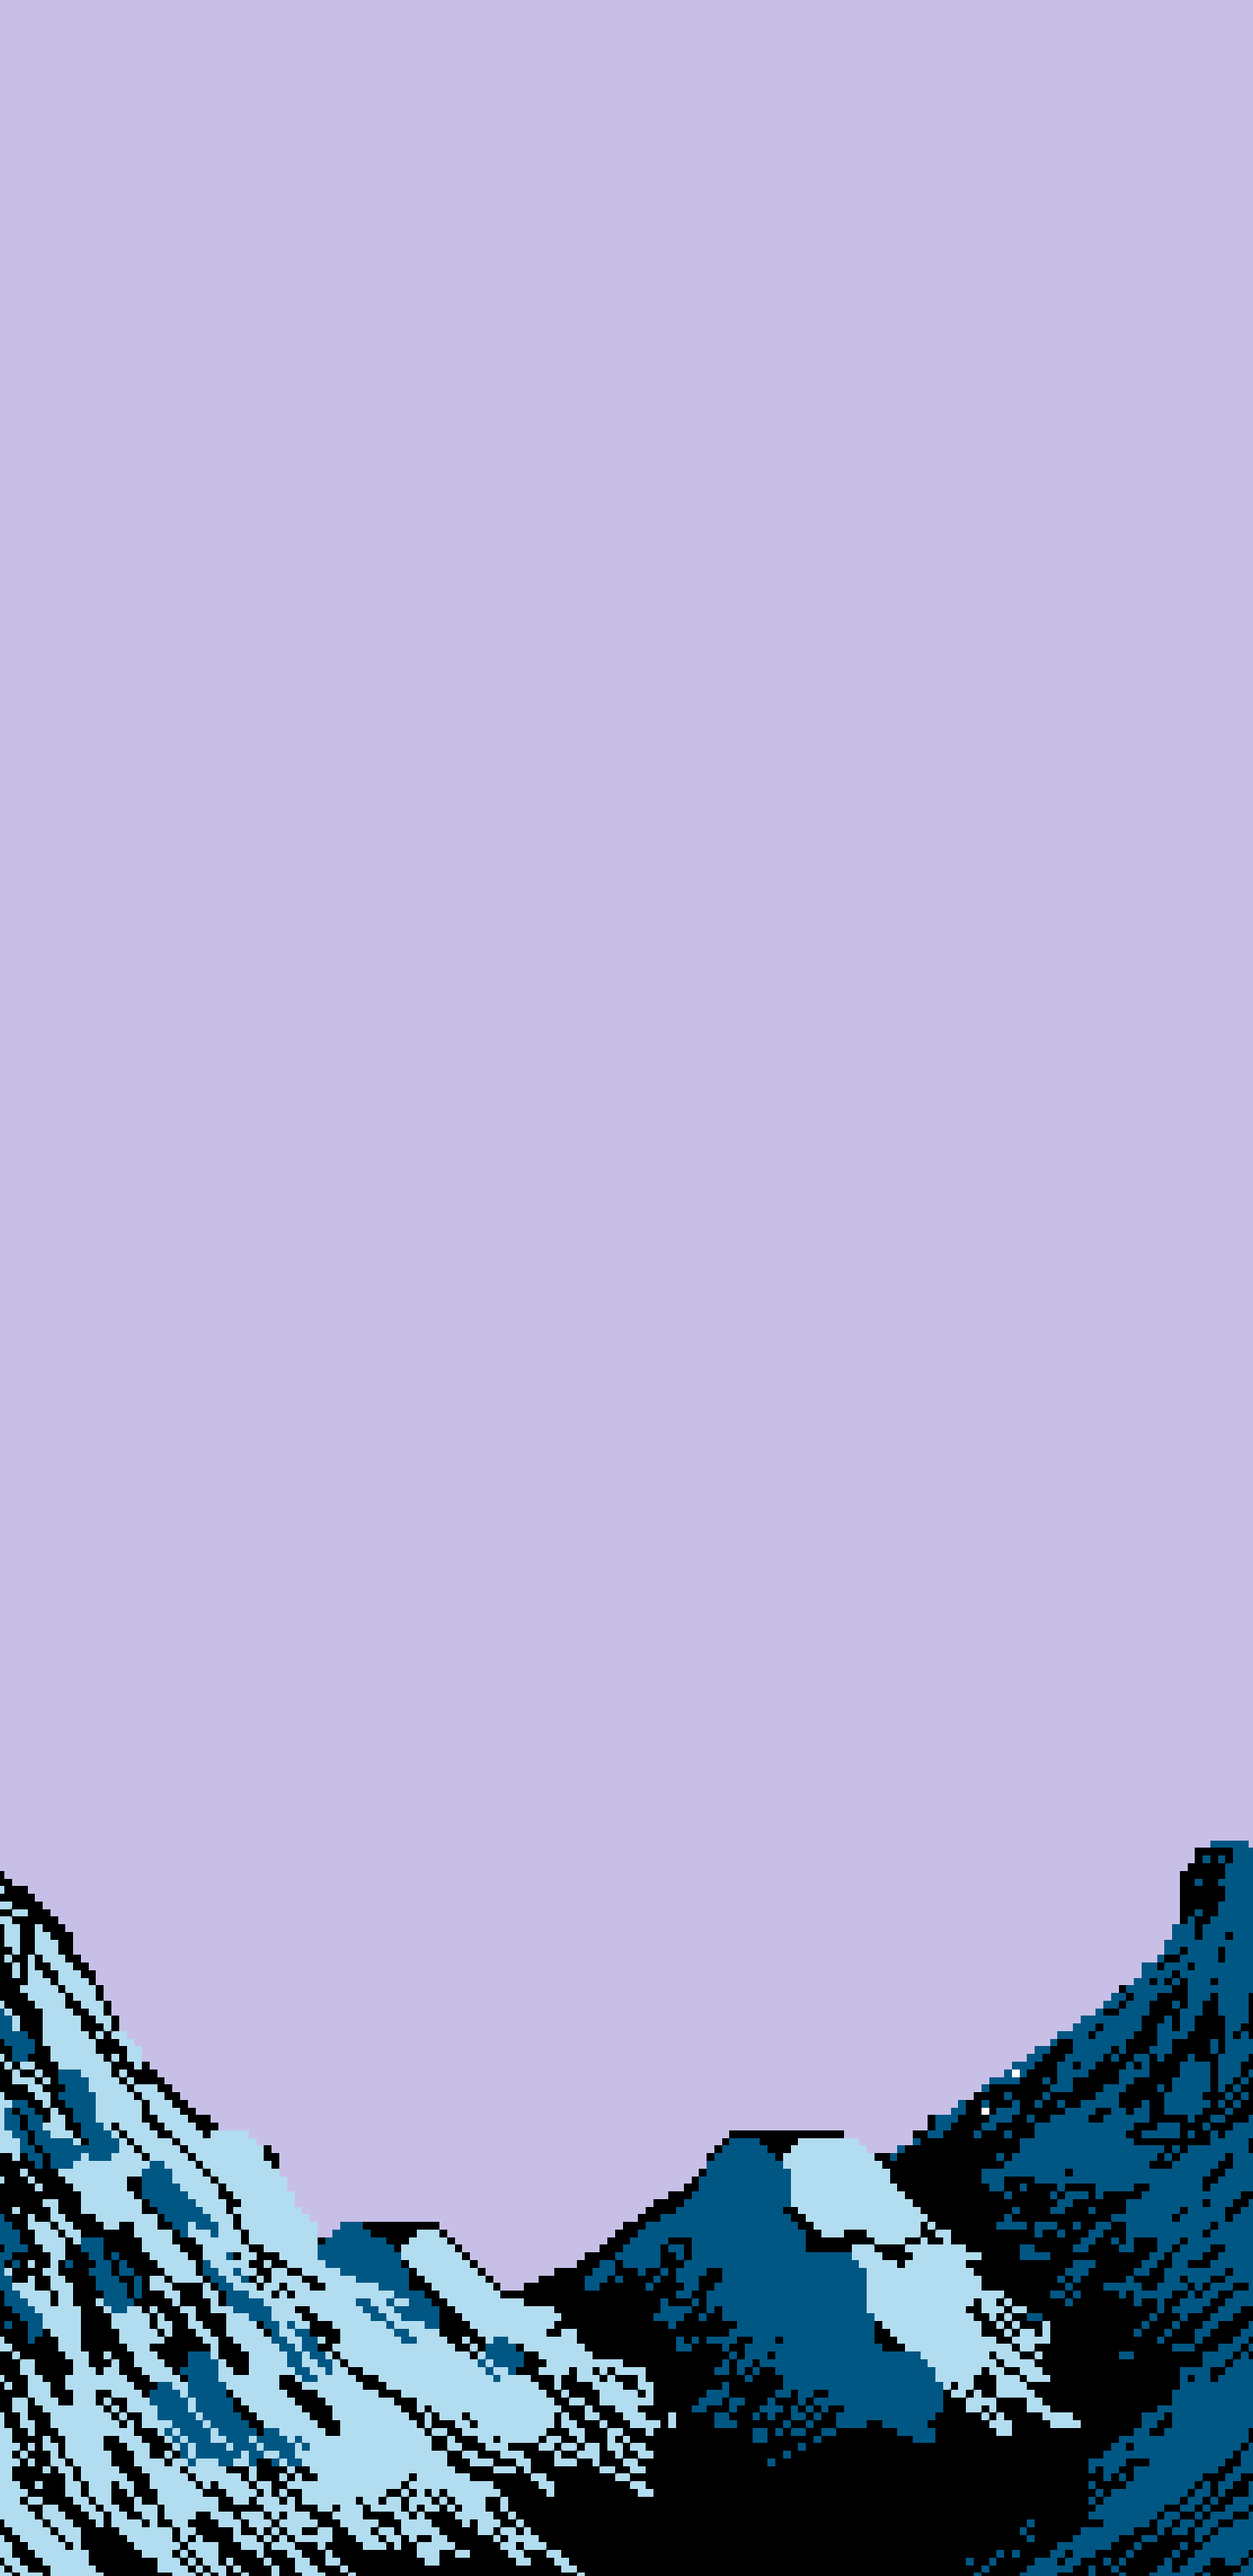
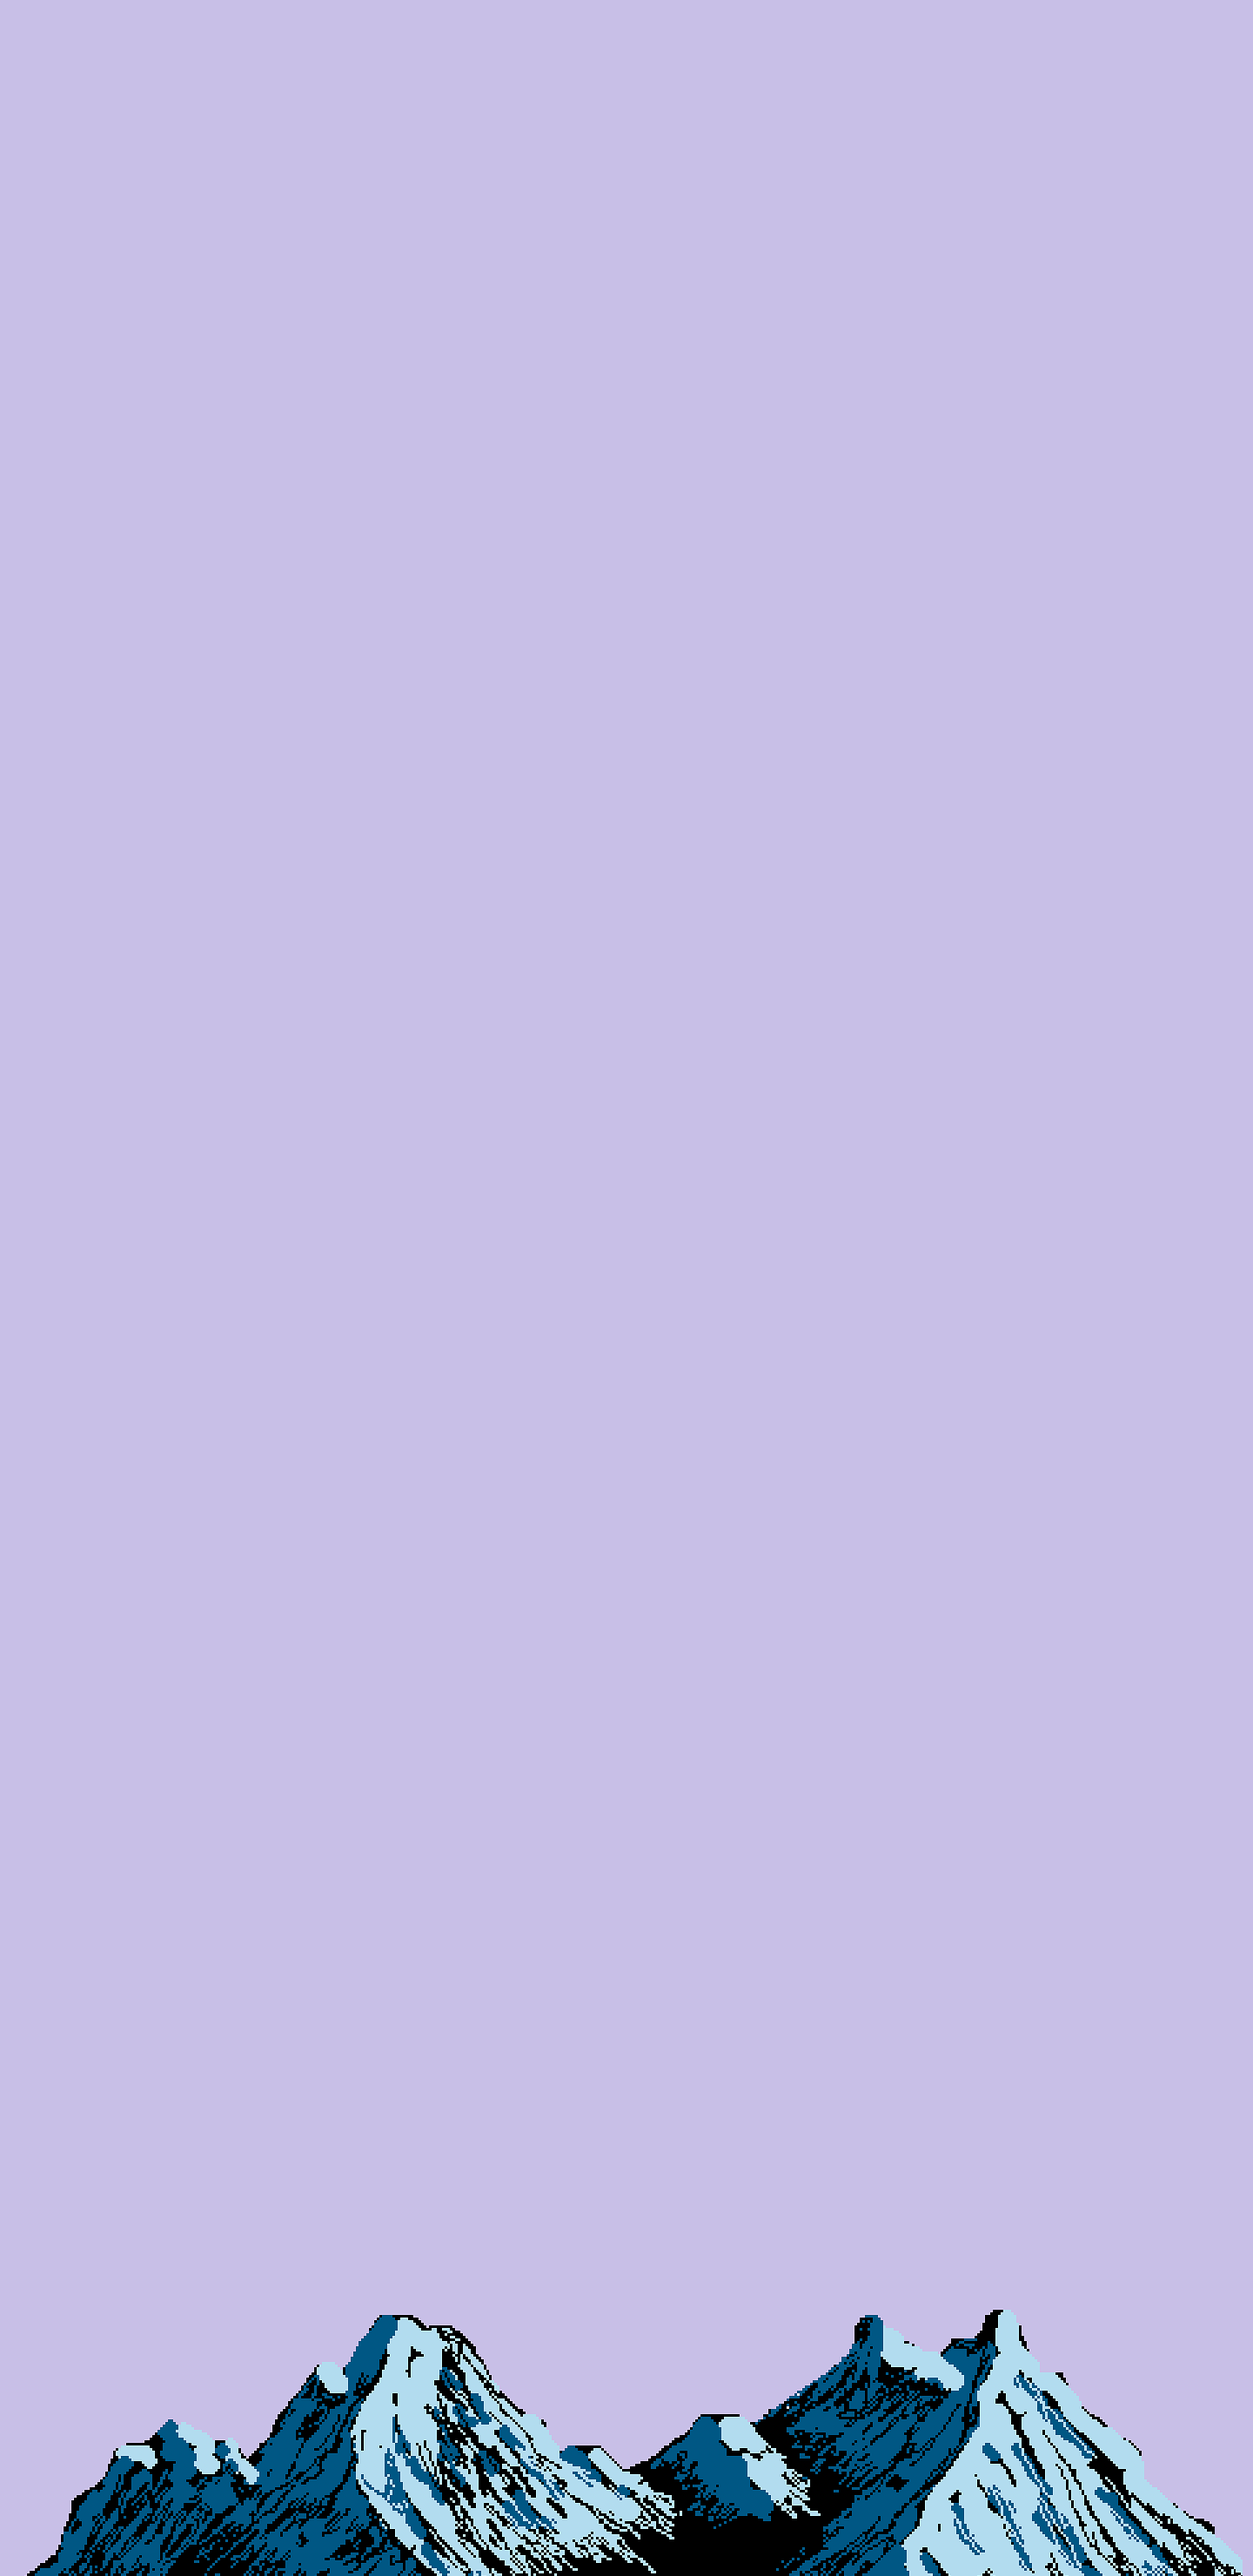
Cityscapes v0.36
Improved the Mountains skin. Fixed the semitransparent G symbol in the Settings scene.

Changed region(s): [[0.0, 0.7149, 1.0, 1.0]]

diff --git a/Assets/Scripts/GameManager.cs b/Assets/Scripts/GameManager.cs
@@ -112,6 +112,8 @@ public class GameManager : MonoBehaviour {
     private float originalPuzzleScale;
     public GameObject puzzleBackground;
 
+    public bool showBuildings;
+
 
     private void Start() {
         skin = StaticVariables.skin;
@@ -462,6 +464,7 @@ public class GameManager : MonoBehaviour {
             for (int j = 0; j < size; j++) {
                 Vector2 pos = new Vector2(puzzleCenter.x - (totalSize / 2) + (scaleFactor * defaultTileScale * (j + 0.5f)), puzzleCenter.y + (totalSize / 2) - (scaleFactor * defaultTileScale * (i + 0.5f)));
                 puzzleGenerator.tilesArray[i, j].setValues(pos, scaleFactor, parent);
+                puzzleGenerator.tilesArray[i, j].transform.Find("Building").gameObject.SetActive(showBuildings);
             }
         }
 
